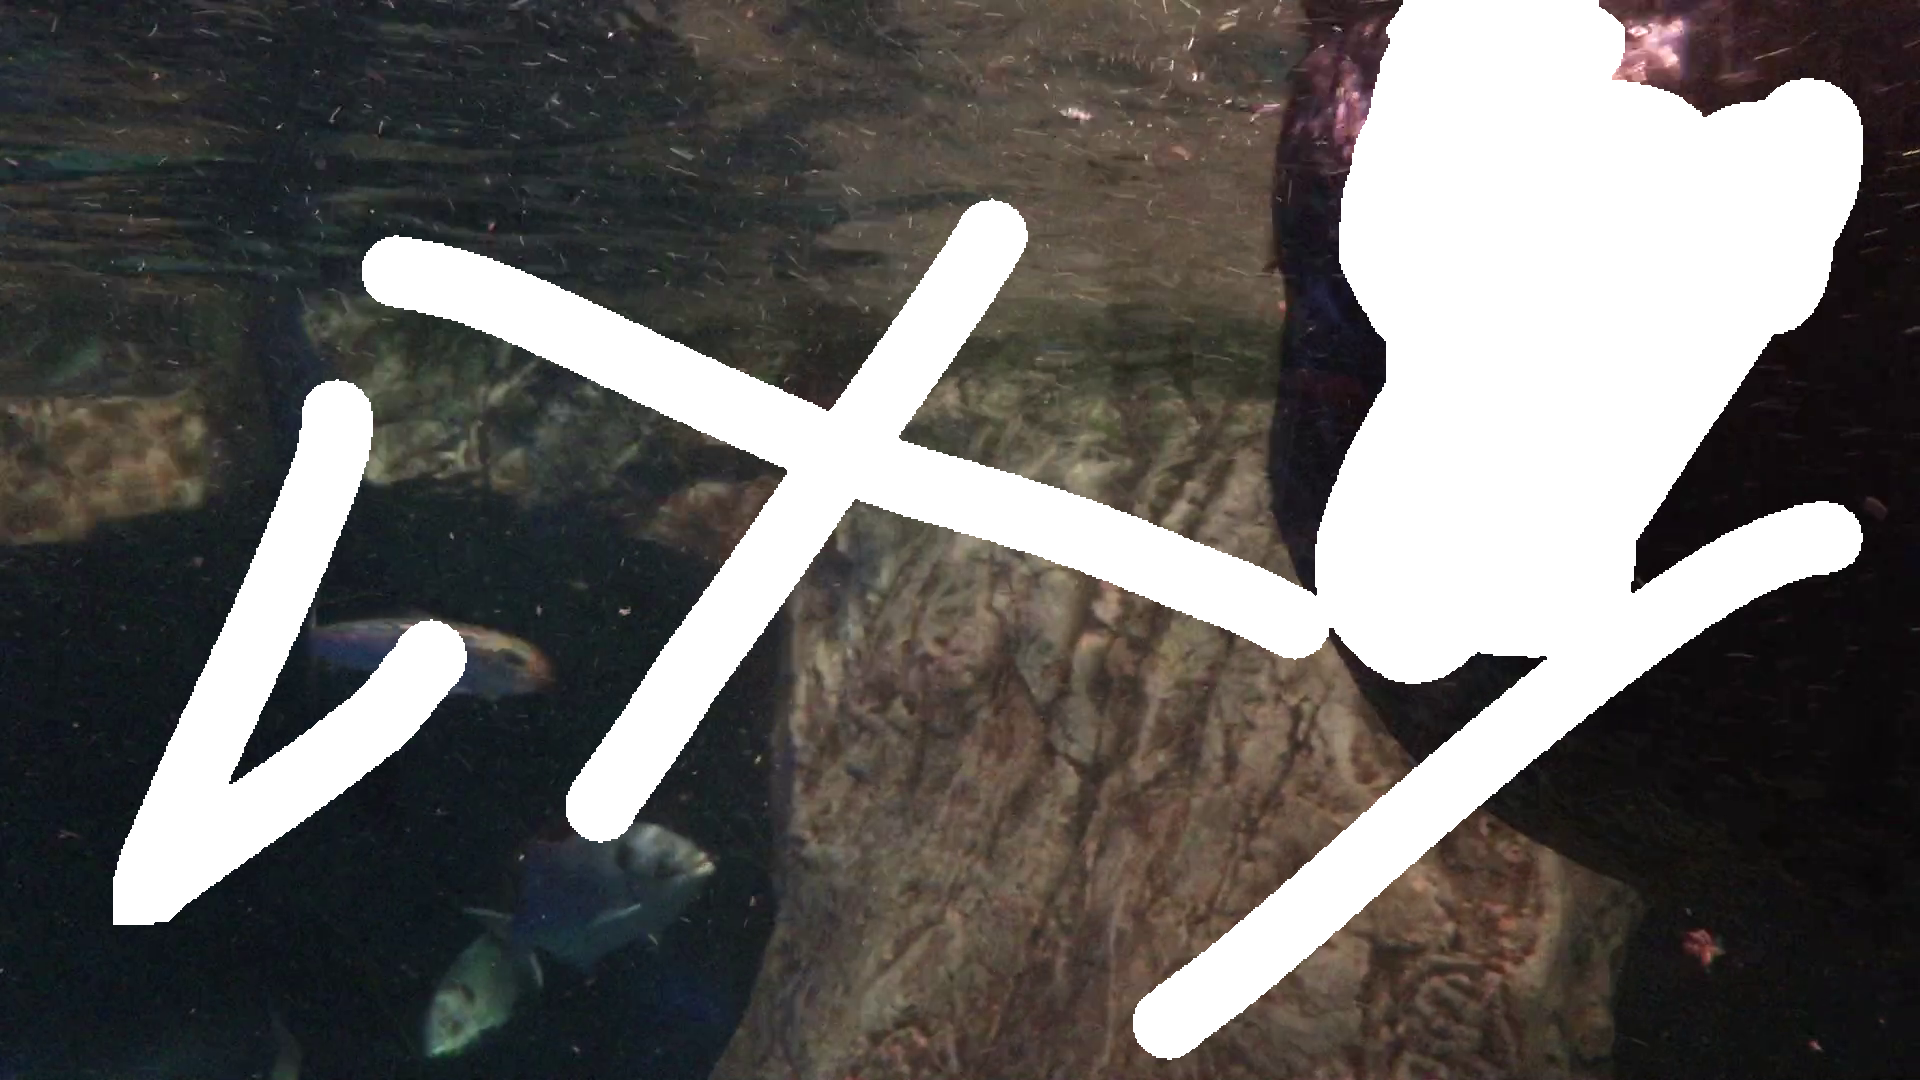
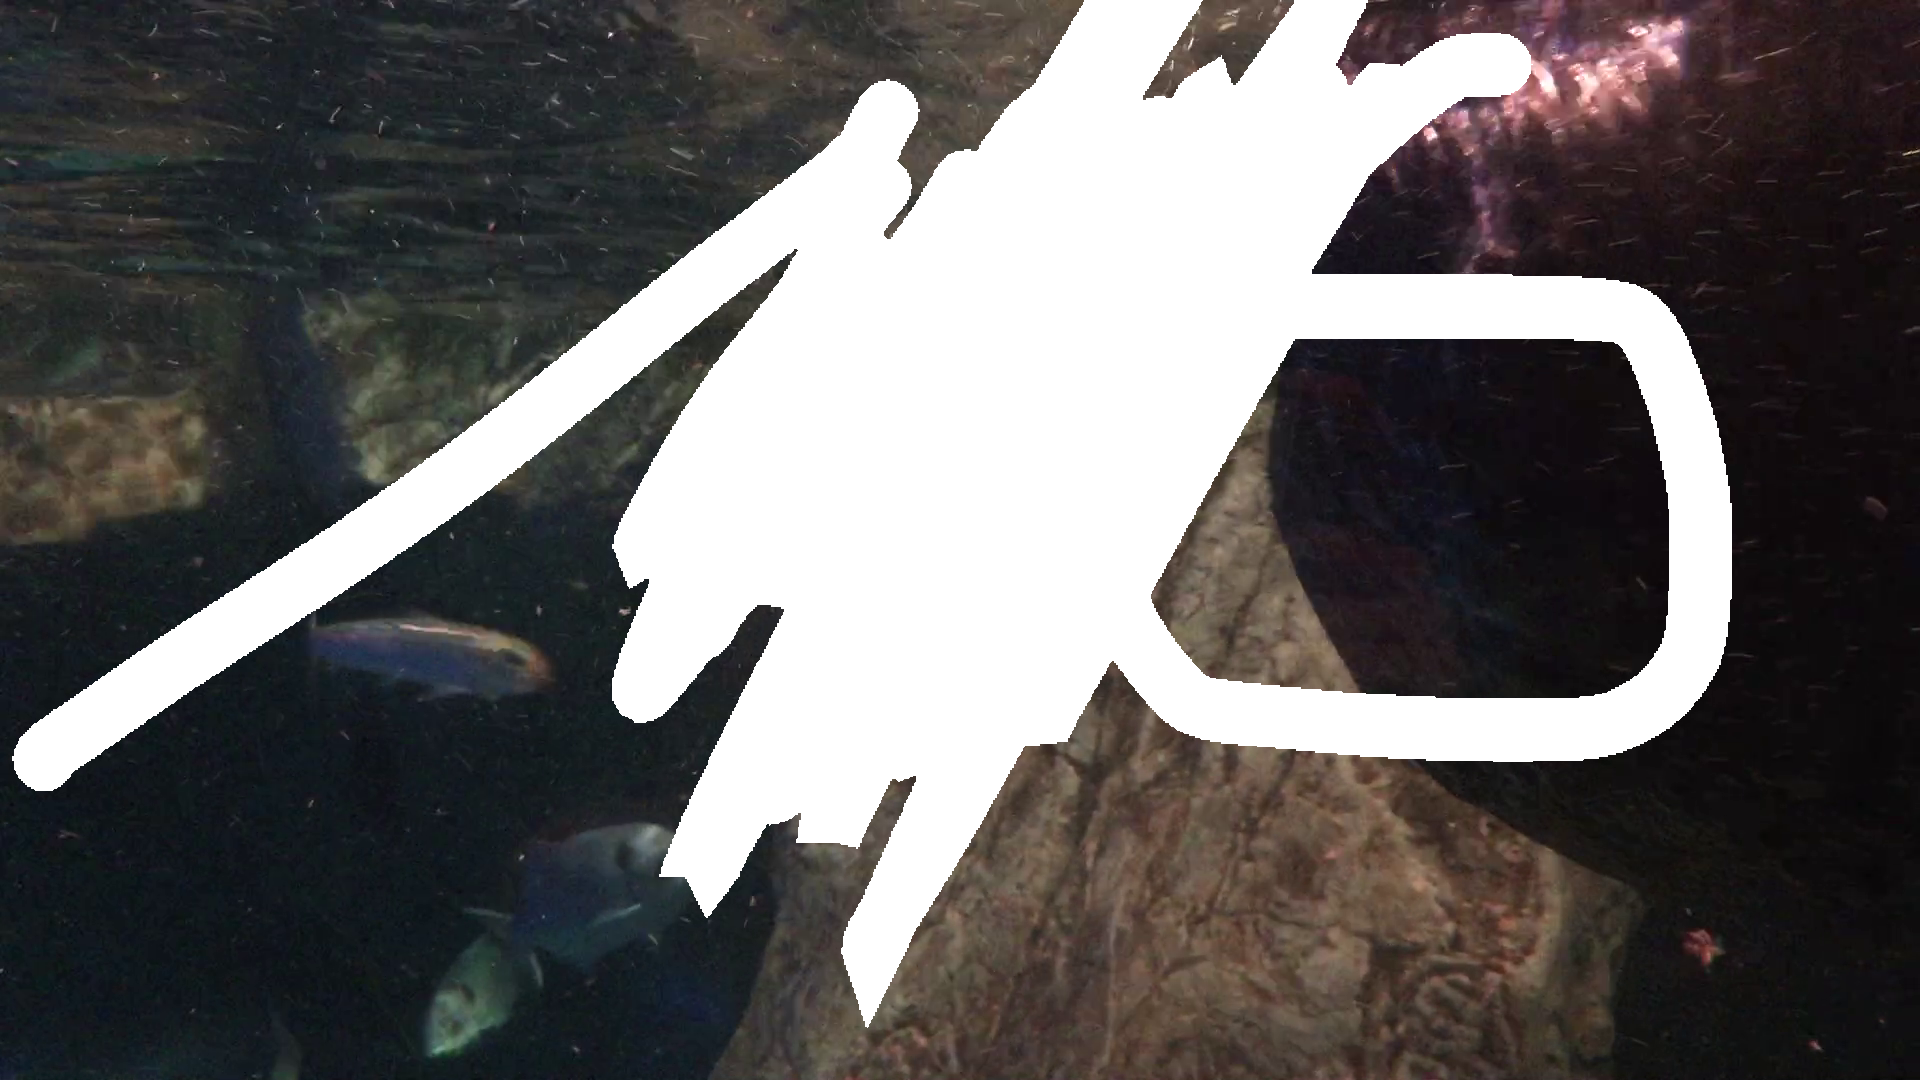
added save dialog

diff --git a/renderer/components/navBar.js b/renderer/components/navBar.js
@@ -1,36 +1,34 @@
 import React from "react";
-import * as globalStyles from '../globalStyles';
-import FileSelection from './fileSelection';
-import IconButton from './iconButton';
-import PreviewToggle from './previewToggle';
+import * as globalStyles from "../globalStyles";
+import FileSelection from "./fileSelection";
+import FileSaver from "./fileSaver";
+import IconButton from "./iconButton";
+import PreviewToggle from "./previewToggle";
 
 class NavBar extends React.Component {
-
 	render() {
 		return (
 			<div className="container">
 				<div className="flex">
-					<FileSelection type="video" filesHandler={this.props.selectCinemagraphVideo} />
+					<FileSelection
+						type="video"
+						filesHandler={this.props.selectCinemagraphVideo}
+					/>
 					<IconButton
 						onClick={this.props.initializeCinemagraphCanvas}
 						stroke={globalStyles.background}
 						name="crosshair"
 						backgroundColor={globalStyles.secondary}
 					/>
-					<PreviewToggle 
+					<PreviewToggle
 						viewMode={this.props.viewMode}
 						attemptPreviewCinemagraph={this.props.attemptPreviewCinemagraph}
 						startCinemagraphEditMode={this.props.startCinemagraphEditMode}
-						/>
-					<IconButton
-						onClick={this.props.attemptRenderCinemagraph}
-						stroke={globalStyles.background}
-						name="share"
-						backgroundColor={globalStyles.secondary}
 					/>
+					<FileSaver type="video" fileHandler={this.props.renderCinemagraph} />
 				</div>
-				<style jsx>{
-					`
+				<style jsx>
+					{`
 					.flex {
 						display:flex;
 						align-items: center;

diff --git a/renderer/containers/cinemagraph/reducer.js b/renderer/containers/cinemagraph/reducer.js
@@ -1,6 +1,7 @@
 import { actionTypes } from "./actions";
 import * as globalStyles from "../../globalStyles";
 import getOverlayMask from "../../lib/cv/getOverlayMask";
+import renderCinemagraph from "../../lib/cv/renderCinemagraph";
 
 const initialState = {
   undoStack: [],
@@ -11,11 +12,12 @@ const initialState = {
   videoHeight: 10,
   boundingRect: {},
   viewMode: "edit",
-  overlayPath: ""
+  overlayPath: "",
+  renderPath: "",
 };
 
 export const cinemagraphReducer = (state = initialState, action) => {
-  let lc;
+  let lc, mask;
   switch (action.type) {
     case actionTypes.INITIALIZE_CINEMAGRAPH_CANVAS:
       const vid = document.getElementById("cinemagraphVideo");
@@ -70,7 +72,7 @@ export const cinemagraphReducer = (state = initialState, action) => {
     case actionTypes.ATTEMPT_PREVIEW_CINEMAGRAPH:
       // use cv to render an image mask to place over the video
       lc = state.lc;
-      const mask = lc
+      mask = lc
         .getImage({ rect: state.boundingRect })
         .toDataURL()
         .split(",")[1];
@@ -87,6 +89,18 @@ export const cinemagraphReducer = (state = initialState, action) => {
         ...state,
         viewMode: "edit"
       };
+    case actionTypes.RENDER_CINEMAGRAPH:
+      const renderPath = "file://" + action.path;
+      mask = lc
+        .getImage({ rect: state.boundingRect })
+        .toDataURL()
+        .split(",")[1];
+
+      renderCinemagraph(mask, state.videoPath, renderPath);
+      return {
+        ...state,
+        renderPath
+      }
     default:
       return state;
   }

diff --git a/renderer/components/fileSaver.js b/renderer/components/fileSaver.js
@@ -1,0 +1,35 @@
+import React from "react";
+import fs from "fs";
+import {remote} from 'electron';
+import IconButton from "./iconButton";
+import * as globalStyles from "../globalStyles";
+
+class FileSelection extends React.Component {
+
+	chooseFileDialog = () => {
+		const path = remote.dialog.showSaveDialog({
+				title: "Choose a video!",
+				filters: [
+			    {name: 'Movies', extensions: ['mkv', 'avi', 'mp4', 'mov']},
+			  ],
+				buttonLabel: "Render",
+				properties: ['openFile'],
+			});
+
+		this.props.fileHandler(path);
+	};
+
+	render() {
+		return (
+			<div onClick={this.chooseFileDialog}>
+				<IconButton
+					stroke={globalStyles.background}
+					name="share"
+					backgroundColor={globalStyles.secondary}
+				/>
+			</div>
+		);
+	}
+}
+
+export default FileSelection;

diff --git a/renderer/containers/cinemagraph/cinemagraph.js b/renderer/containers/cinemagraph/cinemagraph.js
@@ -14,6 +14,7 @@ class Cinemagraph extends React.Component {
 					initializeCinemagraphCanvas={this.props.initializeCinemagraphCanvas}
 					attemptPreviewCinemagraph={this.props.attemptPreviewCinemagraph}
 					startCinemagraphEditMode={this.props.startCinemagraphEditMode}
+					renderCinemagraph={this.props.renderCinemagraph}
 					viewMode={this.props.cinemagraph.viewMode}
 				/>
 				<DrawingCanvas
@@ -37,7 +38,9 @@ const mapDispatchToProps = dispatch => {
 		attemptPreviewCinemagraph: () =>
 			dispatch(Actions.attemptPreviewCinemagraph()),
 		startCinemagraphEditMode: () =>
-			dispatch(Actions.startCinemagraphEditMode())
+			dispatch(Actions.startCinemagraphEditMode()),
+		renderCinemagraph: path =>
+			dispatch(Actions.renderCinemagraph(path))
 	};
 };
 

diff --git a/renderer/lib/cv/renderCinemagraph.js b/renderer/lib/cv/renderCinemagraph.js
@@ -1,0 +1,23 @@
+import { remote } from "electron";
+import fs from "fs";
+
+export default (mask, video, newPath) => {
+	let cv;
+	if (remote) {
+		cv = remote.require("opencv4nodejs");
+		const vc = new cv.VideoCapture(video);
+
+		const path = "./renderer/static/assets/mask.png";
+		fs.writeFileSync(path, mask, { encoding: "base64" });
+
+		let A = cv
+			.imread(path, cv.IMREAD_GRAYSCALE)
+			.resize(overlay.rows, overlay.cols)
+			.threshold(10, 255, cv.THRESH_BINARY);
+		
+		const [B, G, R] = overlay.splitChannels();
+		const maskedOverlay = new cv.Mat([B, G, R, A]);
+
+		return newPath;
+	}
+}

diff --git a/renderer/components/fileSelection.js b/renderer/components/fileSelection.js
@@ -4,7 +4,7 @@ import {remote} from 'electron';
 import IconButton from "./iconButton";
 import * as globalStyles from "../globalStyles";
 
-class NavBar extends React.Component {
+class FileSelection extends React.Component {
 
 	openFileDialog = () => {
 		let files;
@@ -45,4 +45,4 @@ class NavBar extends React.Component {
 	}
 }
 
-export default NavBar;
+export default FileSelection;

diff --git a/renderer/containers/cinemagraph/actions.js b/renderer/containers/cinemagraph/actions.js
@@ -26,3 +26,7 @@ export const attemptPreviewCinemagraph = () => {
 export const startCinemagraphEditMode = () => {
 	return { type: actionTypes.START_CINEMAGRAPH_EDIT_MODE };
 }
+
+export const renderCinemagraph = (path) => {
+	return { type: actionTypes.RENDER_CINEMAGRAPH, path: path };
+}
